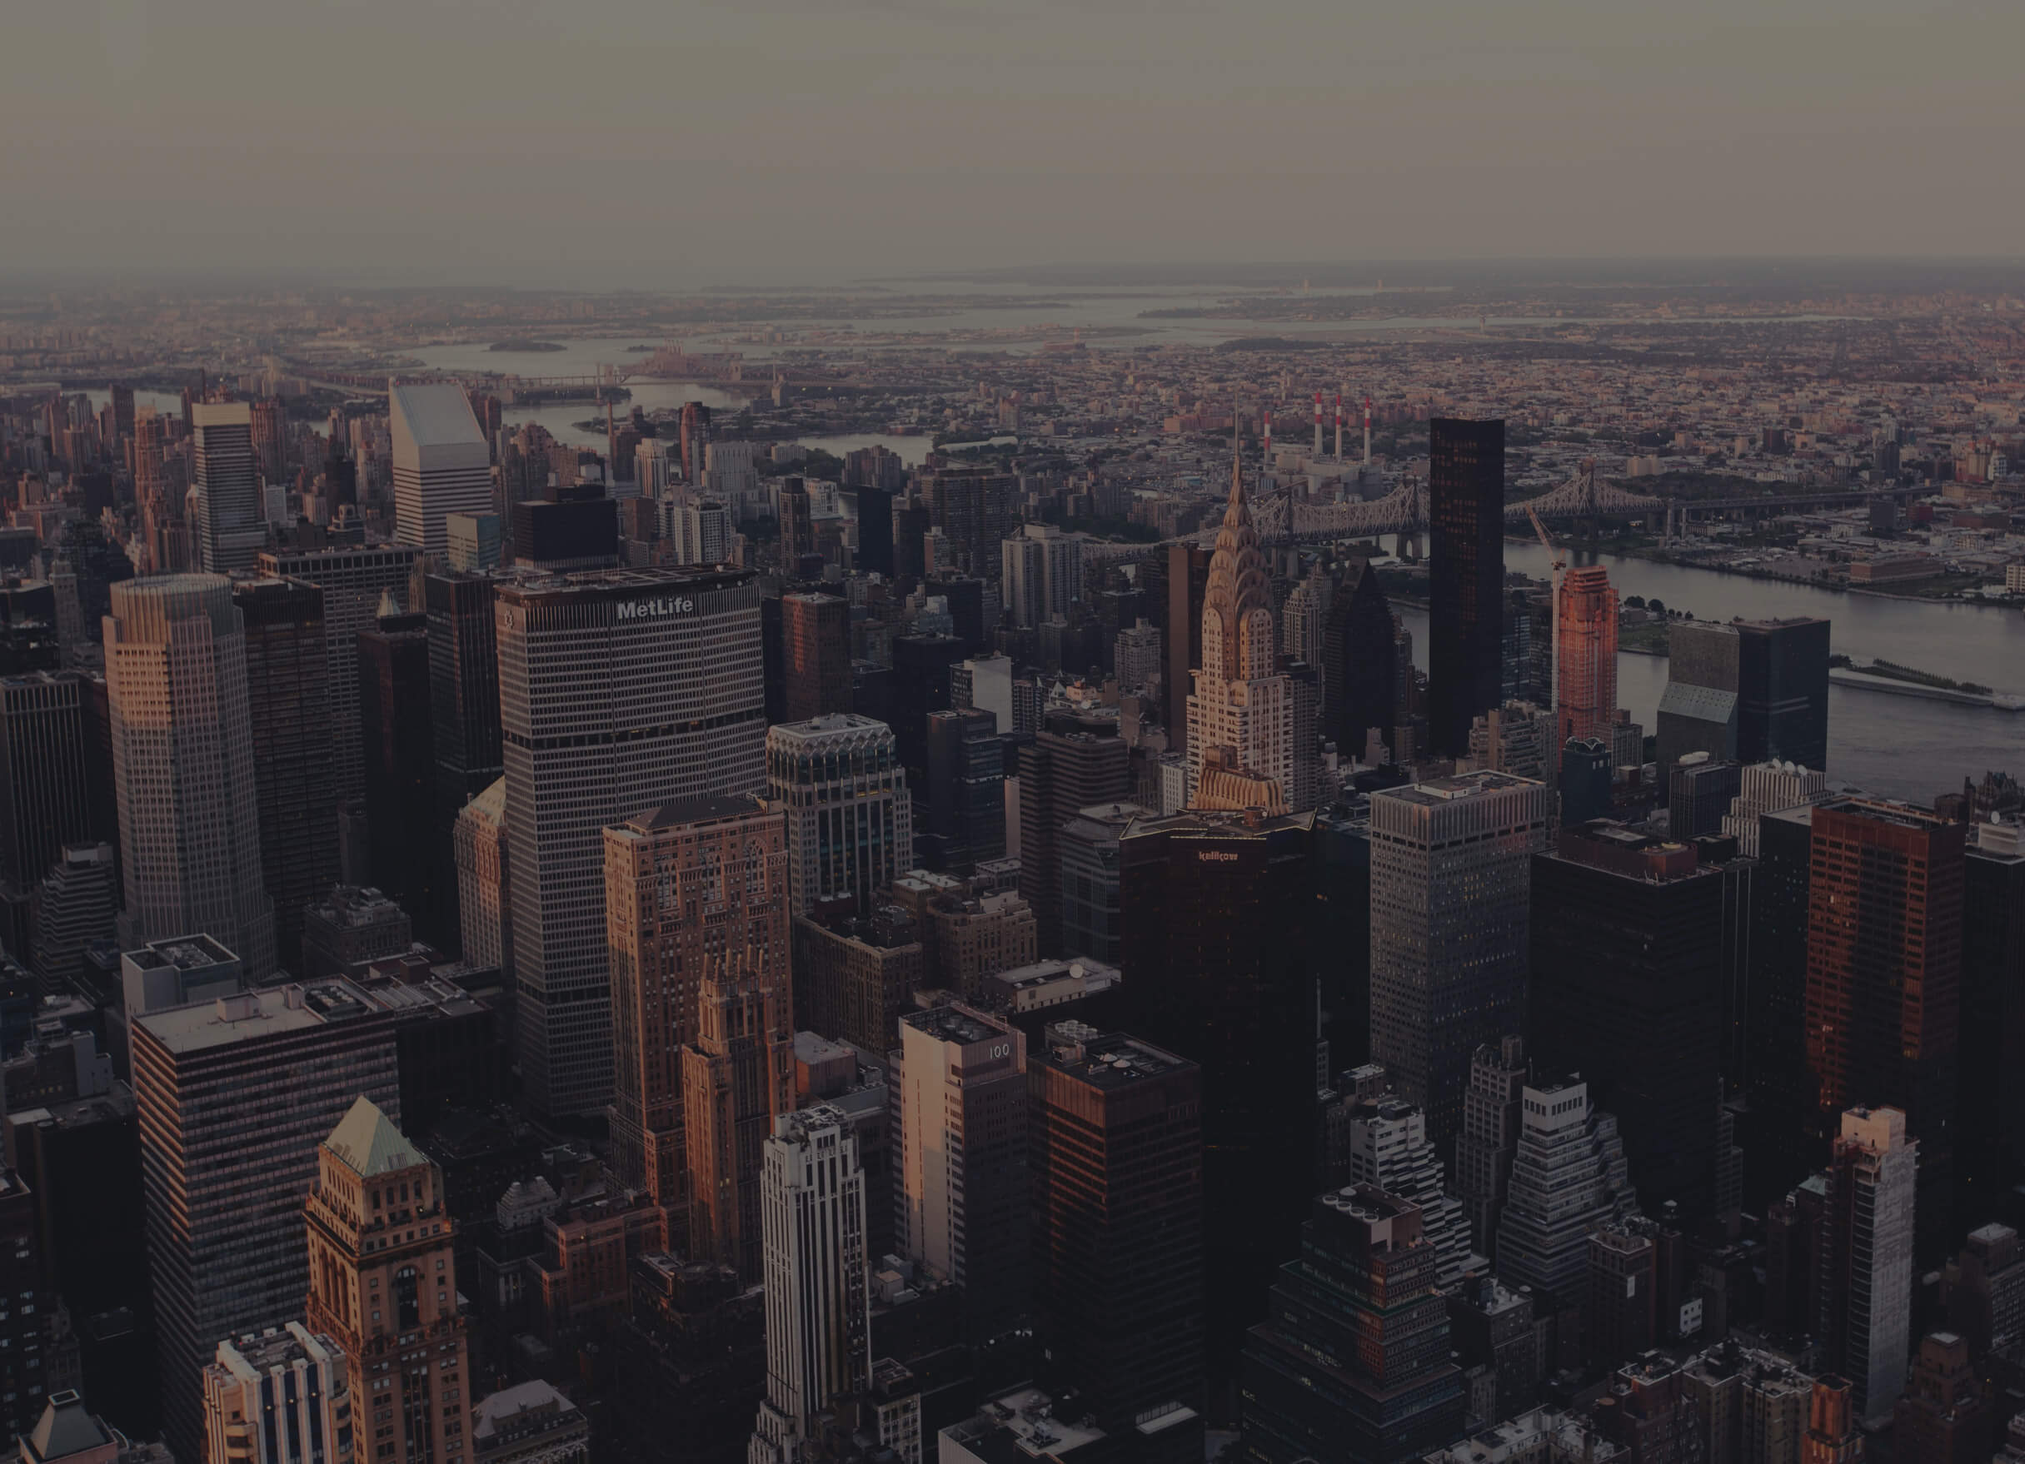
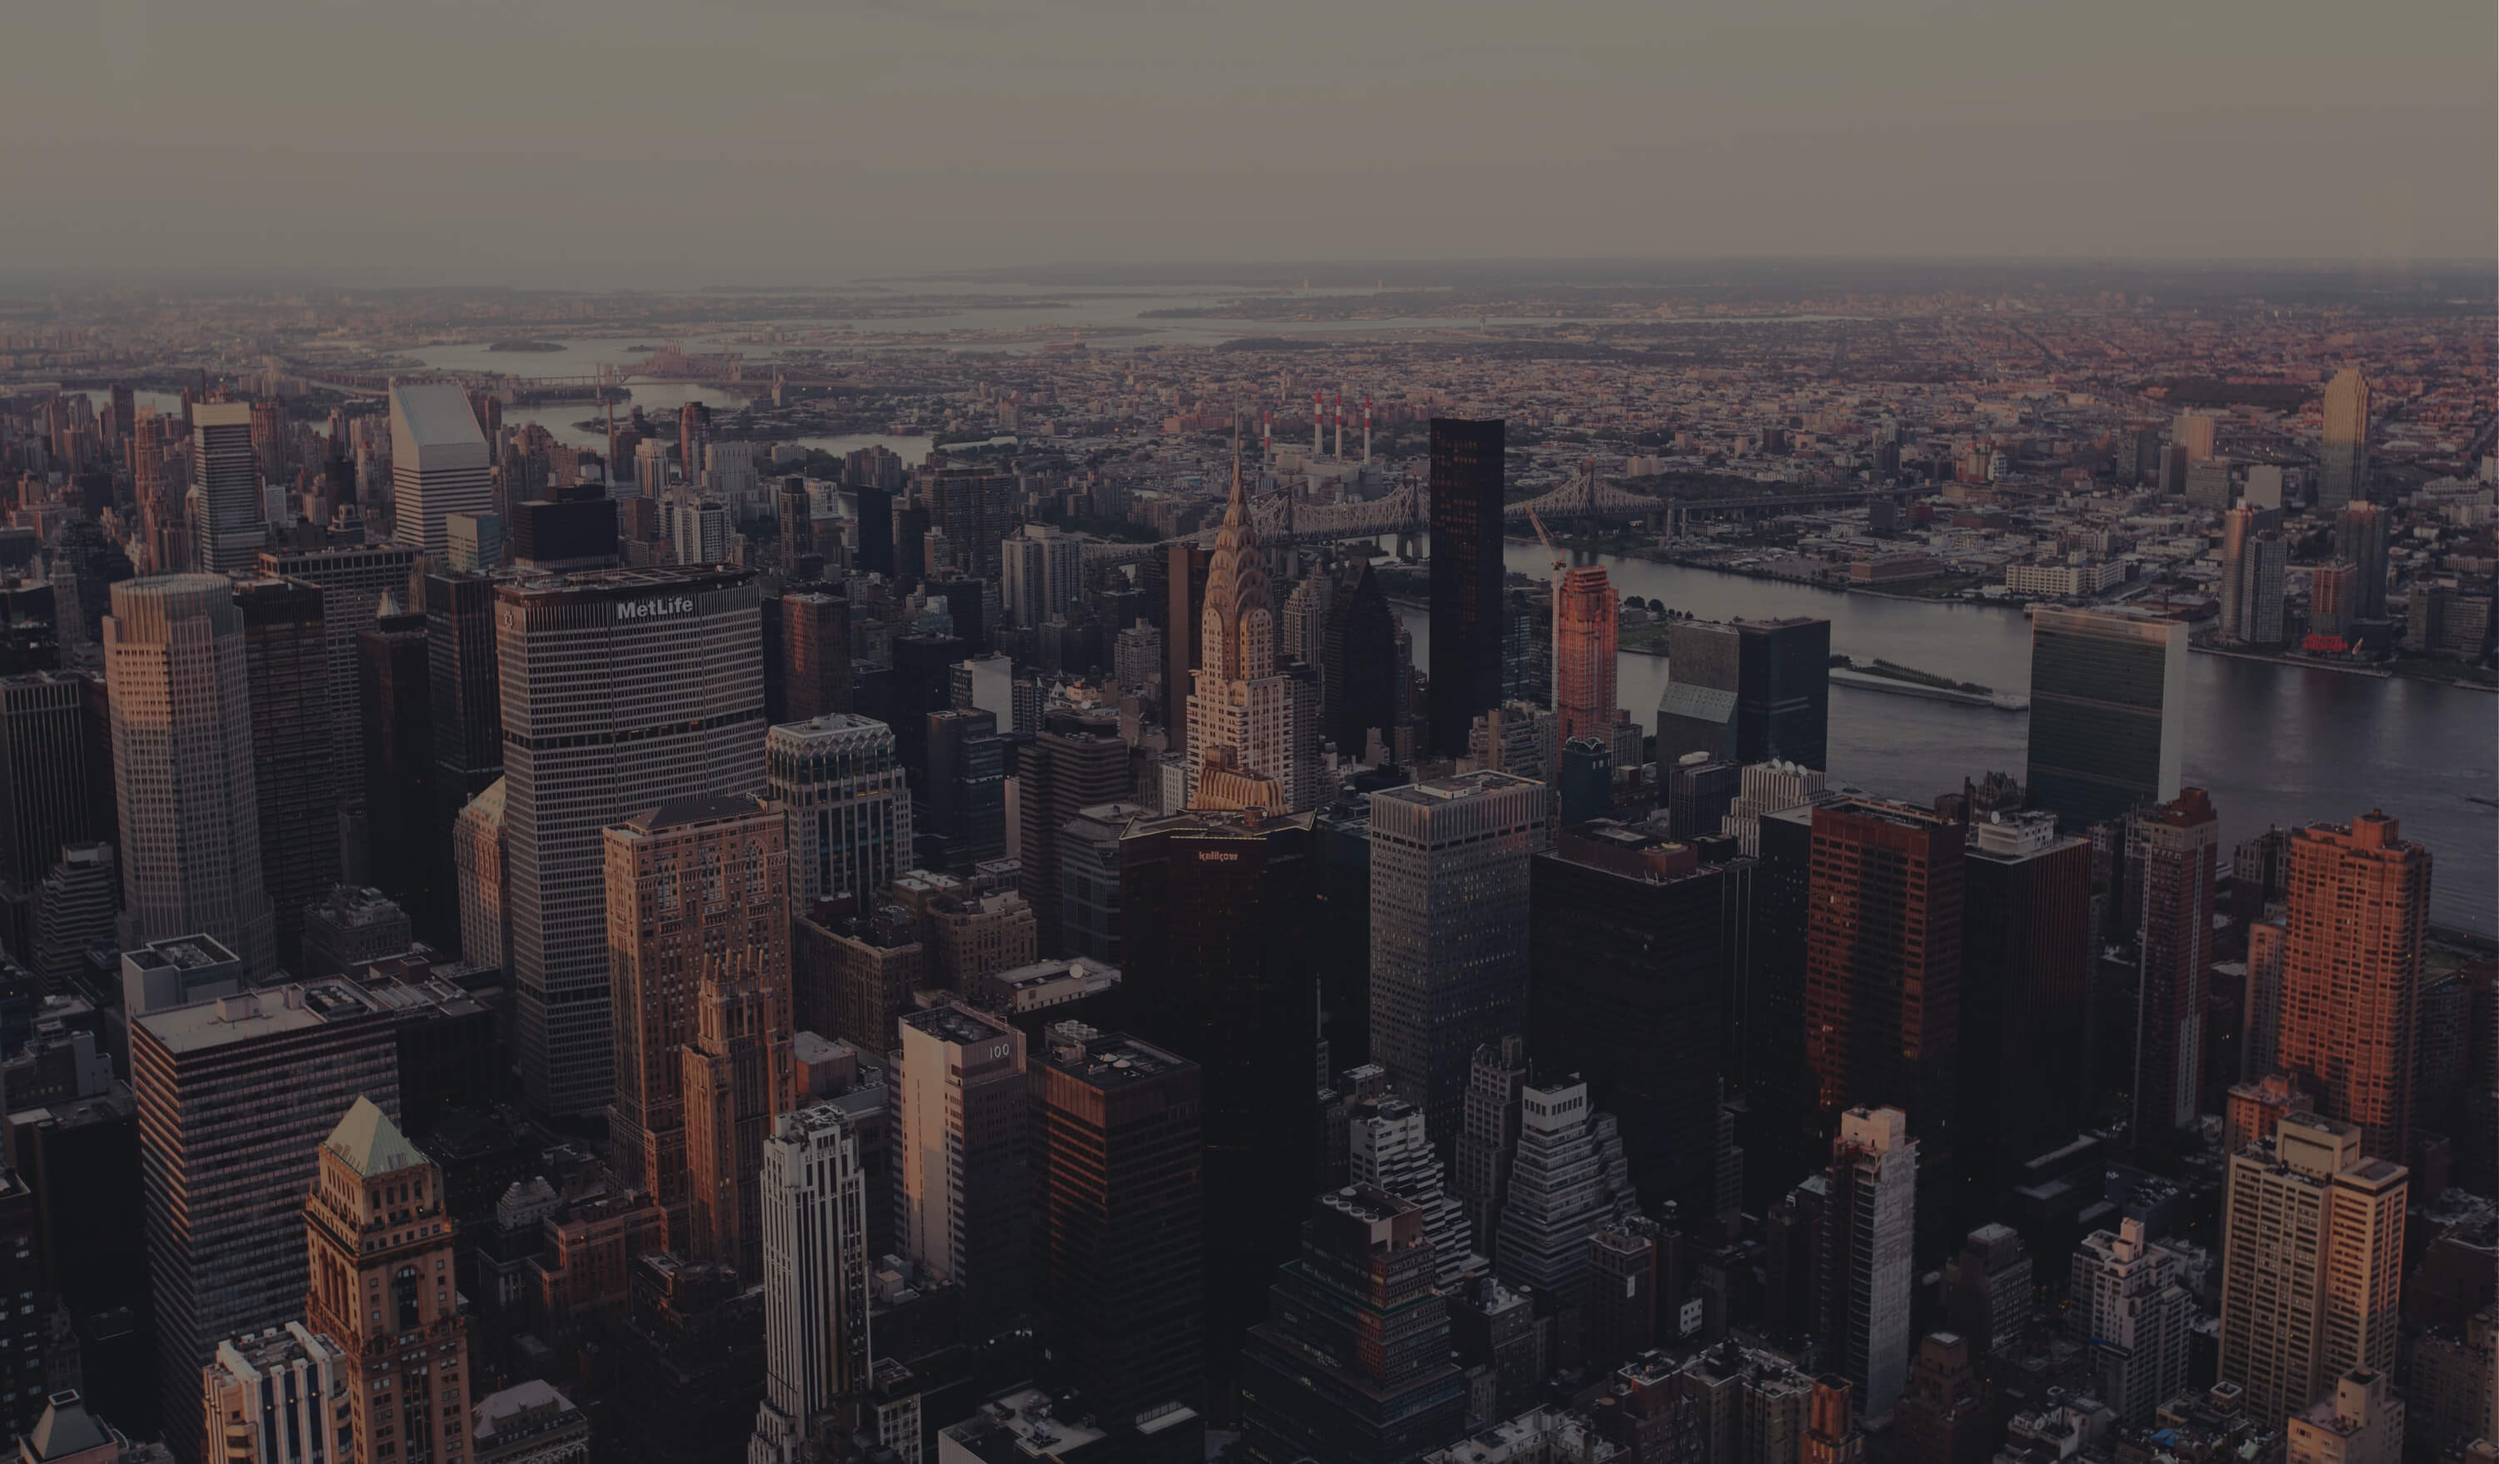
fixed image sizeing

Changed region(s): [[0.0, 0.1843, 1.0, 1.0], [0.5245, 0.8908, 0.5553, 0.9215]]

diff --git a/js/main.js b/js/main.js
@@ -6,11 +6,11 @@ $("document").ready(function($) {
 	$(function sectionSize() {
 	    $(".full").css('height', $(window).height());
 	    $(".full").css('min-height', '700px');
+	    $("#Contact").css('min-height', '750px');
 	});
 
 	//initialise Stellar.js
     $(window).stellar({
-    	// scrollProperty: 'transform',
     	positionProperty: 'transform'
     });
 

diff --git a/css/main.css b/css/main.css
@@ -74,6 +74,8 @@ body {
     background-image: url("../img/city-dark.jpg");
     background-attachment: fixed;
     background-size: 100%;
+    background-repeat: no-repeat;
+    background-position-x: 0px !important; 
 }
 
 #about-image{
